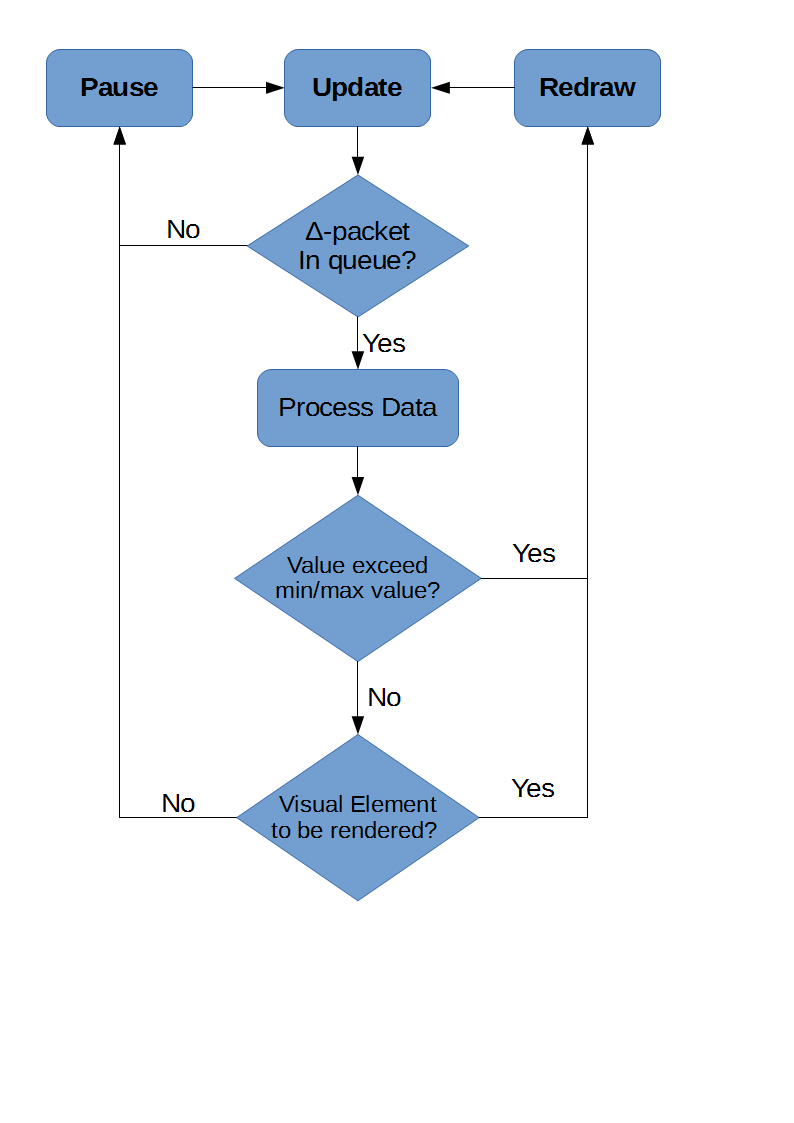
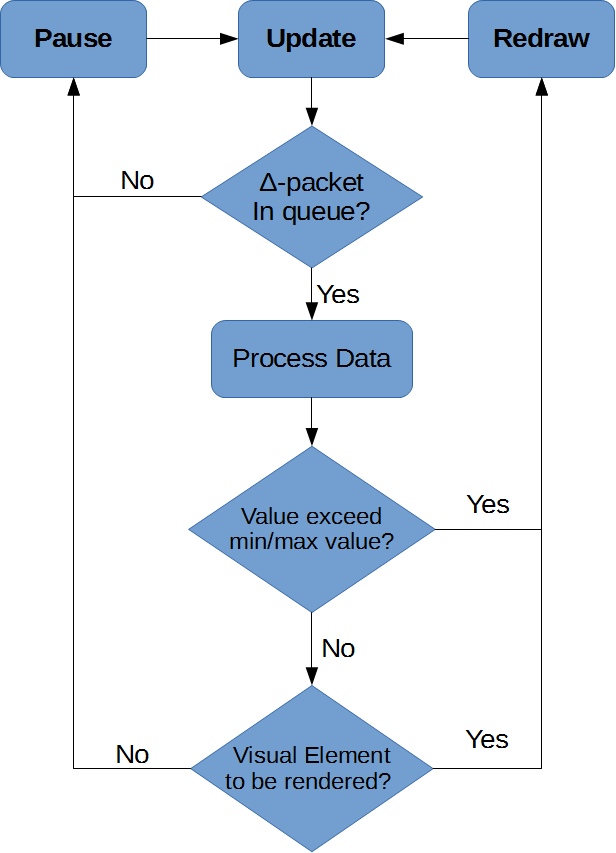
Image resizing

diff --git a/Final Report/implementation/GUI.tex b/Final Report/implementation/GUI.tex
@@ -65,7 +65,7 @@ When testing for performance, the Matlab profiler showed that the function used 
 Now that it is possible to have an update rate for the GUI which is higher than the update rate of the data packages, the GUI needs to be able to deal with an empty queue of packets. In earlier iterations of the system, this was done by repeating the latest data in the update function. However, this makes it seem that there is new data when there is none. This has been changed in a wait-loop which waits if there is no packet in the queue and otherwise runs the regular update flow as can be seen in figure \ref{fig:UpdateFlow}. 
 \begin{figure}[H]
 	\centering
-	\includegraphics[width=.75\textwidth]{images/UpdateFlow}
+	\includegraphics[width=.6\textwidth, height=0.5\textheight]{images/UpdateFlow}
 	\caption{Diagram which shows how the update flow is structured} 
 	\label{fig:UpdateFlow}
 \end{figure} 
